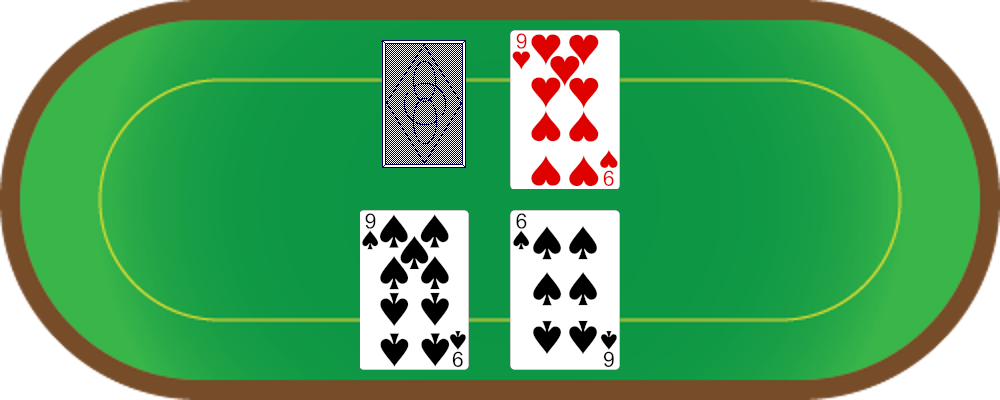
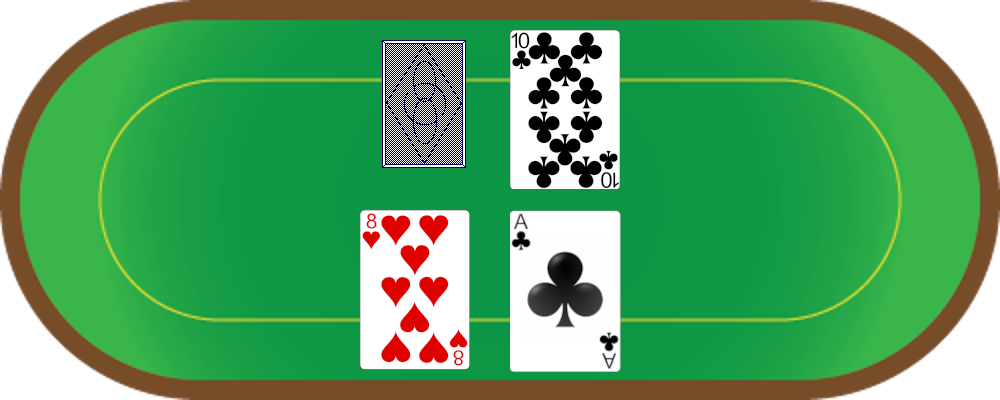
better formatting for images

Changed region(s): [[0.496, 0.06, 0.62, 0.48], [0.341, 0.54, 0.496, 0.93], [0.496, 0.54, 0.62, 0.93]]

diff --git a/src/main/java/com/github/qhss/Main.java b/src/main/java/com/github/qhss/Main.java
@@ -84,7 +84,7 @@ public class Main {
                 g.drawImage(dealer2, 510, 30, null); // actual card
         }
         else {
-                int xDealer = background.getWidth() / bj.getDealerCards().length - 120;
+                int xDealer = background.getWidth() / 2 - (bj.getDealerCards().length * 60);
         
                 for (int i = 0; i < bj.getDealerCards().length; i++) {
                         g.drawImage(ImageIO.read(new File(bj.getDealerCards()[i])), xDealer, 40, null);
@@ -92,7 +92,7 @@ public class Main {
                 }
         }
 
-        int xPlayer = background.getWidth() / bj.getPlayerCards().length - 120;
+        int xPlayer = background.getWidth() / 2 - (bj.getPlayerCards().length * 60);
         
         
         for (int i = 0; i < bj.getPlayerCards().length; i++) {
